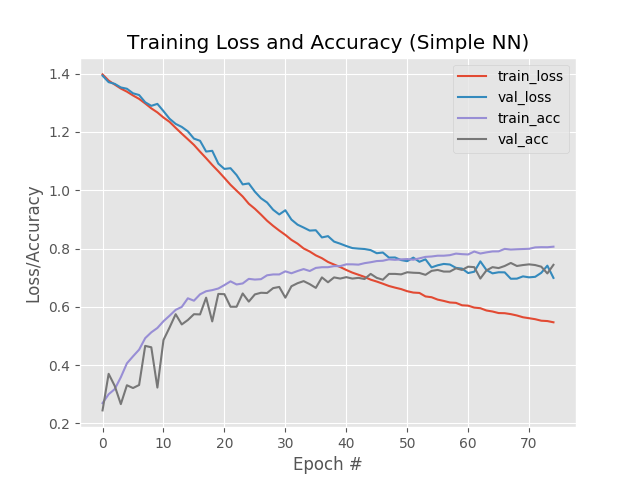
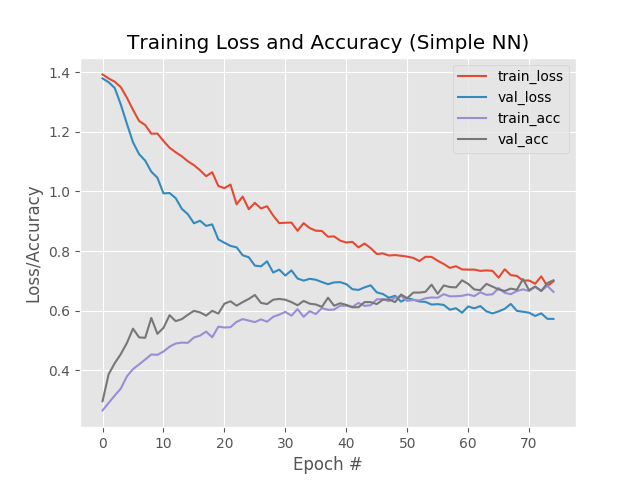
CIFAR10 model working

Changed region(s): [[0.0625, 0.125, 0.875, 0.8438], [0.0625, 0.875, 0.125, 0.9062], [0.2812, 0.4375, 0.3125, 0.4688]]

diff --git a/test.py b/test.py
@@ -23,11 +23,11 @@ import cv2
 
 
 # load the input image and resize it to the target spatial dimensions
-fn = "90-10241990_1984-11-28_2007.jpg"
+fn = "90-102690_1966-09-09_2011.jpg"
 image = cv2.imread("test/"+fn)
 (height, width) = image.shape[:2]
 output = image.copy()
-# image = cv2.resize(image, (args["width"], args["height"]))
+image = cv2.resize(image, (64, 64))
  
 # scale the pixel values to [0, 1]
 image = image.astype("float") / 255.0
@@ -38,14 +38,13 @@ image = image.astype("float") / 255.0
 # 	image = image.flatten()
 # 	image = image.reshape((1, image.shape[0]))
 
-image = image.flatten()
-image = image.reshape((1, image.shape[0]))
+# image = image.flatten()
+# image = image.reshape((1, image.shape[0]))
  
 # otherwise, we must be working with a CNN -- don't flatten the
 # image, simply add the batch dimension
 # else:
-# 	image = image.reshape((1, image.shape[0], image.shape[1],
-# 		image.shape[2]))
+image = image.reshape((1, image.shape[0], image.shape[1], image.shape[2]))
 
 print("[INFO] loading network and label binarizer...")
 model = load_model("model.model")
@@ -68,20 +67,39 @@ scale = 1
 
 output_rotated = output
 
+print(text)
+
+scale_text = 0.4
+pos_text = (3,13)
+color_text = (255,255,255)
+# color_text = (0,0,255)
 if label == 'rotated_left':
 	M = cv2.getRotationMatrix2D(center, -90, scale)
 	output_rotated = cv2.warpAffine(output, M, (height, width))
+	text = "{}: {:.1f}%".format("L", preds[0][i] * 100)
+	cv2.putText(output, text, pos_text, cv2.FONT_HERSHEY_SIMPLEX, scale_text,
+		color_text, 1)
 elif label == 'rotated_right':
 	M = cv2.getRotationMatrix2D(center, 90, scale)
 	output_rotated = cv2.warpAffine(output, M, (height, width))
+	text = "{}: {:.1f}%".format("R", preds[0][i] * 100)
+	cv2.putText(output, text, pos_text, cv2.FONT_HERSHEY_SIMPLEX, scale_text,
+		color_text, 1)
 elif label == 'upside_down':
 	M = cv2.getRotationMatrix2D(center, 180, scale)
 	output_rotated = cv2.warpAffine(output, M, (height, width))
+	text = "{}: {:.1f}%".format("D", preds[0][i] * 100)
+	cv2.putText(output, text, pos_text, cv2.FONT_HERSHEY_SIMPLEX, scale_text,
+		color_text, 1)
+else:
+	text = "{}: {:.1f}%".format("U", preds[0][i] * 100)
+	cv2.putText(output, text, pos_text, cv2.FONT_HERSHEY_SIMPLEX, scale_text,
+		color_text, 1)
 
-print(text)
+
 # show the output image
 # cv2.imshow("Image", output)
-# cv2.imwrite("image.png", output)
+cv2.imwrite("image.png", output)
 cv2.imwrite("image_corrected.png", output_rotated)
 # cv2.waitKey(0)
 

diff --git a/model.py b/model.py
@@ -1,19 +1,60 @@
+import keras
+
 from keras.models import Sequential
+from keras.layers.normalization import BatchNormalization
+from keras.layers.convolutional import Conv2D
+from keras.layers.convolutional import MaxPooling2D
+from keras.layers.core import Activation
+from keras.layers.core import Flatten
+from keras.layers.core import Dropout
 from keras.layers.core import Dense
 from keras.optimizers import SGD
 
 class Model(object):
+	# def build(classes):
+	# 	model = Sequential()
+	# 	model.add(Dense(1024, input_shape=(12288,), activation="sigmoid"))
+	# 	model.add(Dense(512, activation="sigmoid"))
+	# 	model.add(Dense(classes, activation="softmax"))
+
+	# 	INIT_LR = 0.01
+
+	# 	print("[INFO] training network...")
+	# 	optimizer = SGD(lr=INIT_LR)
+	# 	model.compile(loss="categorical_crossentropy", optimizer=optimizer,
+	# 		metrics=["accuracy"])
+
+	# 	return model
+
 	def build(classes):
 		model = Sequential()
-		model.add(Dense(1024, input_shape=(12288,), activation="sigmoid"))
-		model.add(Dense(512, activation="sigmoid"))
-		model.add(Dense(classes, activation="softmax"))
+		model.add(Conv2D(32, (3, 3), padding='same', input_shape=(64,64,3)))
+		model.add(Activation('relu'))
+		model.add(Conv2D(32, (3, 3)))
+		model.add(Activation('relu'))
+		model.add(MaxPooling2D(pool_size=(2, 2)))
+		model.add(Dropout(0.25))
 
-		INIT_LR = 0.01
+		model.add(Conv2D(64, (3, 3), padding='same'))
+		model.add(Activation('relu'))
+		model.add(Conv2D(64, (3, 3)))
+		model.add(Activation('relu'))
+		model.add(MaxPooling2D(pool_size=(2, 2)))
+		model.add(Dropout(0.25))
 
-		print("[INFO] training network...")
-		optimizer = SGD(lr=INIT_LR)
-		model.compile(loss="categorical_crossentropy", optimizer=optimizer,
-			metrics=["accuracy"])
+		model.add(Flatten())
+		model.add(Dense(512))
+		model.add(Activation('relu'))
+		model.add(Dropout(0.5))
+		model.add(Dense(classes))
+		model.add(Activation('softmax'))
+
+		# initiate RMSprop optimizer
+		opt = keras.optimizers.rmsprop(lr=0.0001, decay=1e-6)
+
+		# Let's train the model using RMSprop
+		model.compile(loss='categorical_crossentropy',
+		              optimizer=opt,
+		              metrics=['accuracy'])
 
 		return model

diff --git a/train.py b/train.py
@@ -4,6 +4,7 @@ import pickle
 import numpy as np
 import matplotlib.pyplot as plt
 
+from keras.preprocessing.image import ImageDataGenerator
 from sklearn.model_selection import train_test_split
 from sklearn.metrics import classification_report
 from sklearn.preprocessing import LabelBinarizer
@@ -11,6 +12,7 @@ from model import Model
 # from model import model
 
 EPOCHS = 75
+BS = 64
 
 def load_data_and_labels(fn):
 	#initialize data and labels
@@ -19,7 +21,8 @@ def load_data_and_labels(fn):
 	labels = []
 	cont = 0
 	for row in csv.DictReader(open(fn)):
-		img = cv2.imread("train/"+row['fn']).flatten()
+		img = cv2.imread("train/"+row['fn'])
+		# img = cv2.imread("train/"+row['fn']).flatten()
 		data.append(img)
 		labels.append(row['label'])
 		if cont == 3000:
@@ -38,12 +41,20 @@ lb = LabelBinarizer()
 trainY = lb.fit_transform(trainY)
 testY = lb.transform(testY)
 
+aug = ImageDataGenerator(rotation_range=30, width_shift_range=0.1,
+	height_shift_range=0.1, shear_range=0.2, zoom_range=0.2,
+	horizontal_flip=True, fill_mode="nearest")
+
 model = Model.build(len(lb.classes_))
 # print(trainY)
 # print(testY)
 
-H = model.fit(trainX, trainY, validation_data=(testX, testY),
-	epochs=EPOCHS, batch_size=64)
+# H = model.fit(trainX, trainY, validation_data=(testX, testY),
+# 	epochs=EPOCHS, batch_size=64)
+
+H = model.fit_generator(aug.flow(trainX, trainY, batch_size=BS),
+	validation_data=(testX, testY), steps_per_epoch=len(trainX) // BS,
+	epochs=EPOCHS)
 
 # evaluate the network
 print("[INFO] evaluating network...")
